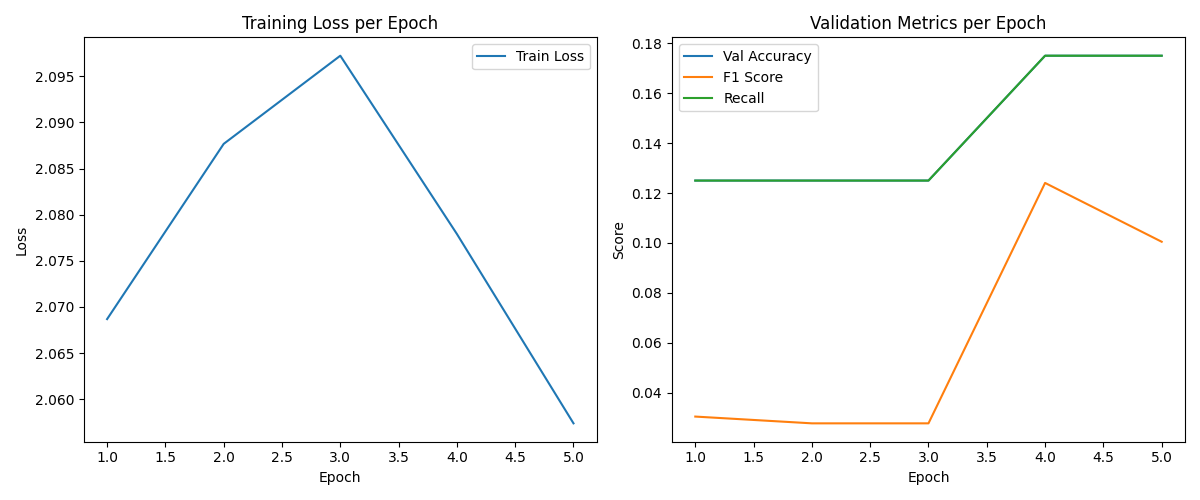
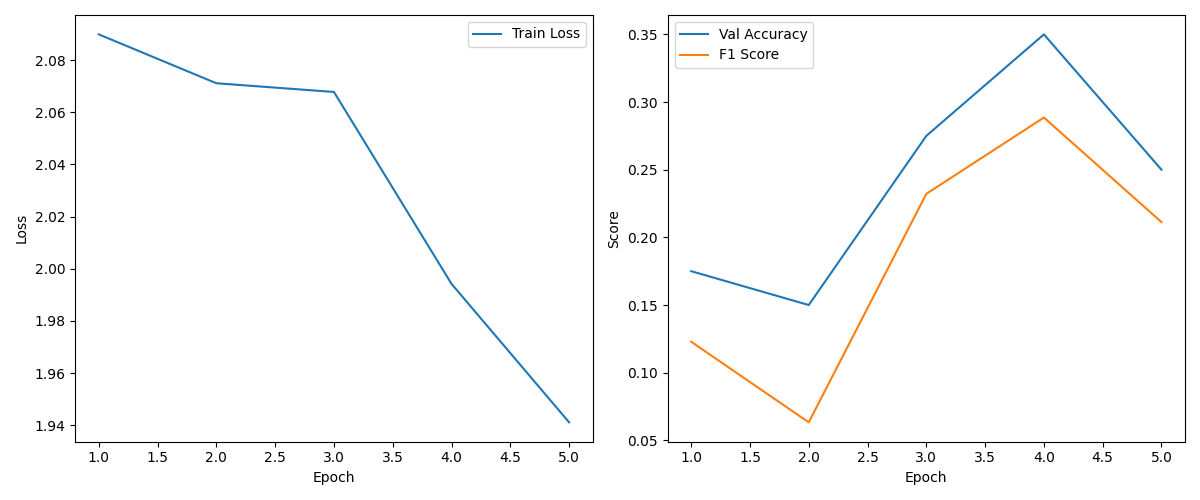
add hugging_face upload model snippet | 10_6_25 10:14

diff --git a/NLP_Med/src/ELECTRA.py b/NLP_Med/src/ELECTRA.py
@@ -1,5 +1,5 @@
 import pandas as pd
-import torch, json, os
+import torch, json, os, psutil, time
 import numpy as np
 from torch.utils.data import Dataset, DataLoader
 from transformers import ElectraTokenizer, ElectraForSequenceClassification, AdamW, get_linear_schedule_with_warmup
@@ -7,16 +7,16 @@ from sklearn.model_selection import train_test_split
 from sklearn.metrics import accuracy_score, classification_report, f1_score, recall_score
 from tqdm import tqdm
 import matplotlib.pyplot as plt
-import time
-import psutil
 from sklearn.utils.class_weight import compute_class_weight
+from Hugging_face import upload_to_huggingface
+
 
 # Конфигурация (изменено на ELECTRA)
 MODEL_NAME = 'google/electra-base-discriminator'  # Или 'google/electra-small-discriminator' для меньшей модели
-BATCH_SIZE = 16
+BATCH_SIZE = 8
 MAX_LEN = 256
-EPOCHS = 20
-LEARNING_RATE = 3e-5
+EPOCHS = 5
+LEARNING_RATE = 1e-5
 WARMUP_STEPS = 100
 
 
@@ -109,6 +109,8 @@ class MedicalDataset(Dataset):
             'attention_mask': encoding['attention_mask'].flatten(),
             'labels': torch.tensor(label, dtype=torch.long)
         }
+
+
 
 # 3. Обучение с учетом весов классов
 def train_epoch(model, dataloader, optimizer, device, scheduler, class_weights=None):
@@ -297,3 +299,5 @@ def main():
 
 if __name__ == '__main__':
     main()
+    HF_REPO_NAME = "faso312/test1"  # Прописал свое имя, свой аккаунт, возможно стоит сделать под это аккаунт команды
+    upload_to_huggingface(SAVE_PATH, HF_REPO_NAME, RESULTS_PATH, IMG_PATH, LABLE_PATH)

diff --git a/NLP_Med/src/Hugging_face.py b/NLP_Med/src/Hugging_face.py
@@ -1,0 +1,44 @@
+from huggingface_hub import HfApi, Repository, notebook_login # pip install huggingface_hub, ipywidgets
+
+
+# Добавьте эту функцию в ваш код
+def upload_to_huggingface(model_path, repo_name, results_path, img_path, lable_path):
+    # Аутентификация
+    notebook_login()
+    
+    # Создаем репозиторий
+    api = HfApi()
+    api.create_repo(repo_name, exist_ok=True)
+    
+    # Загружаем модель
+    api.upload_folder(
+        folder_path=model_path,
+        repo_id=repo_name,
+        repo_type="model"
+    )
+    
+    # Загружаем результаты
+    api.upload_file(
+        path_or_fileobj=results_path,
+        path_in_repo="results.csv",
+        repo_id=repo_name,
+        repo_type="model"
+    )
+    
+    # Загружаем графики
+    api.upload_file(
+        path_or_fileobj=img_path,
+        path_in_repo="training_plot.png",
+        repo_id=repo_name,
+        repo_type="model"
+    )
+    
+    # Загружаем label2id.json
+    api.upload_file(
+        path_or_fileobj=lable_path,
+        path_in_repo="label2id.json",
+        repo_id=repo_name,
+        repo_type="model"
+    )
+    
+    print(f"All files uploaded to https://huggingface.co/{repo_name}")

diff --git a/NLP_Med/src/mdeBert.py b/NLP_Med/src/mdeBert.py
@@ -9,7 +9,7 @@ from tqdm import tqdm
 import matplotlib.pyplot as plt  
 
 # Конфигурация
-MODEL_NAME = 'microsoft/mdeberta-v3-base'  # Используем mdeberta
+MODEL_NAME = 'microsoft/mdeberta-v3-base' 
 BATCH_SIZE = 8  
 MAX_LEN = 128
 EPOCHS = 150     

diff --git a/NLP_Med/src/mdeBert_newVal.py b/NLP_Med/src/mdeBert_newVal.py
@@ -11,7 +11,7 @@ import time
 import psutil
 
 # Конфигурация
-MODEL_NAME = 'microsoft/mdeberta-v3-base'  # Используем mdeberta
+MODEL_NAME = 'microsoft/mdeberta-v3-base'  
 BATCH_SIZE = 8  
 MAX_LEN = 128
 EPOCHS = 5     

diff --git a/NLP_Med/src/T5-small.py b/NLP_Med/src/T5-small.py
@@ -11,7 +11,7 @@ import time
 import psutil
 
 # Конфигурация
-MODEL_NAME = 't5-small'  # Используем T5-small
+MODEL_NAME = 't5-small' 
 BATCH_SIZE = 8  
 MAX_LEN = 128
 EPOCHS = 20     
